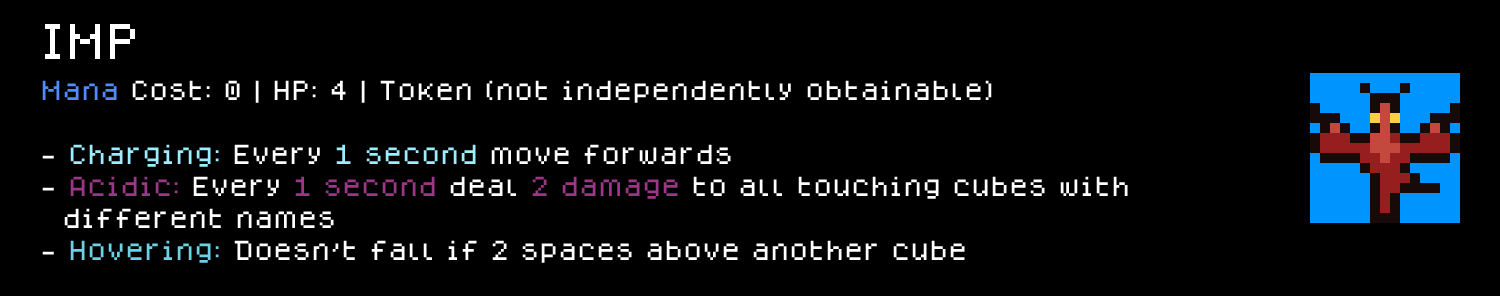
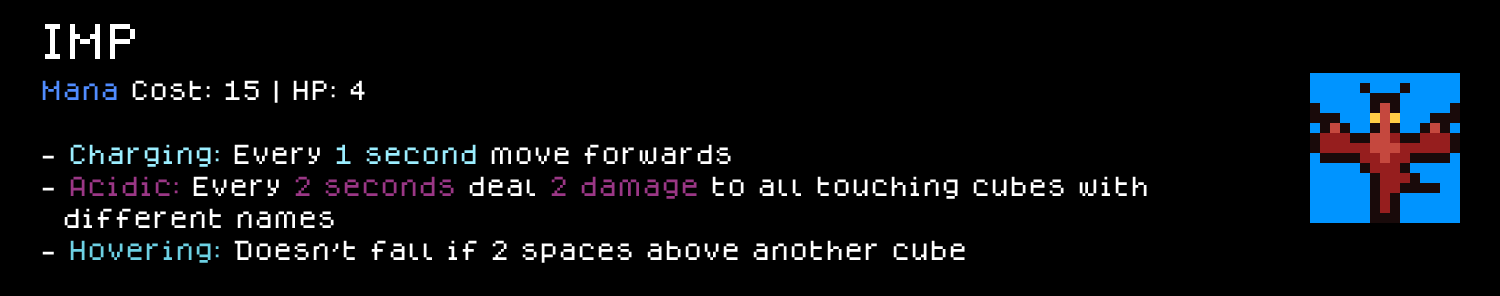
Demon cube changes

Changed region(s): [[0.276, 0.5777, 0.7667, 0.6689], [0.1533, 0.2736, 0.6747, 0.3345], [0.184, 0.6081, 0.2147, 0.6385]]

diff --git a/.claude/skills/cube-chaos-balancing/SKILL.md b/.claude/skills/cube-chaos-balancing/SKILL.md
@@ -49,6 +49,10 @@ Consistent with this whole skill set's core discipline (`cube-chaos-scripting`: 
 
 **Pricing a "spawner" cube by decomposition when no single analog fits.** When a cube's main value is that it creates/becomes another unit (plus does something itself), price it as **(notional value of the spawned unit) + (the cube's own body/effect value)**, rather than hunting for one analog that does the whole thing. Real usage, the Unholy mod (user-set anchors): the `Imp` token was pegged at ≈25 mana of value, so `Damned_Soul` (a `Medium_Warrior_Slime`-ish body that *also* leaves an Imp on death) was priced ≈25 + ~13 body ≈ 38, and `Plague_Imp` (an Imp-equivalent body + a death-poison rider) ≈ 25 + rider ≈ 32. The spawned unit's "notional value" is itself a judgment call (a `TOKEN` has no `IDENT` to read it off — see the TOKEN section below), so anchor it once with the user and reuse it across every cube that spawns that unit, per this skill's write-it-down discipline.
 
+**That spawn-value anchor doesn't automatically carry over if the token itself later becomes an obtainable `IDENT` cube.** When Unholy's `Imp` was converted from `TOKEN` to a real `IDENT 1` cube (2026-07-28, priced on its own hp/ability merits — 4/4 hp, one `EveryXAcidicY 60 2` attack, no rider), the user set its standalone manacost at **15**, below both the ≈25 spawn-value anchor above and the rarity-1 median (25) — the ≈25 figure was always "how much value a *free* Imp is worth to the cube that spawns it," not "what a *purchased* Imp should cost," and those two numbers are allowed to diverge once the token needs its own real price tag. `IDENT` line used: `IDENT 1 10 0 0 0` (aggressive 10, matching `Plague_Imp`'s aggressive rating for the same attack; no defensive/scaling/weirdness since Imp has no on-death rider).
+
+**`EveryXAcidicY TIME DAMAGE` (deals `DAMAGE` to every touching cube with a different name — an AoE poke, not single-target) empirically clusters at `DAMAGE 1`, not 2, across every real analog.** Grepped every `EveryXAcidicY` use in the base game + mods (excluding the deliberately-joke `Magma` `1000/1000/1000` cube): `Lava` (10 mana, `10 1`), `Solid_Shadow` (10 mana, `300 1`), `Fallout` (3 mana, `60 1`), `Acidic`/General class (40 mana `IDENT 2`, `60 1`), `Stomach_Cell` (20 mana `IDENT 1`, `60 1`), `Molten_Brimstone` (0 mana `TOKEN`, `60 1`) — six real cubes at `DAMAGE 1`, versus only a `TOKEN` acid-hazard puddle (`Acid`, `40 2`) at `DAMAGE 2`. So Unholy's `Imp`/`Plague_Imp` at `60 2` were priced above the real norm for this ability. Fixed 2026-07-28 by doubling the interval instead of cutting the damage (user's explicit preference — the user wanted to preserve the "2 damage" bite rather than chip for 1): both now use `EveryXAcidicY 120 2`, which lands their DPS exactly at the same 1-dmg/60-tick rate as the six real analogs above while keeping the bigger per-hit number. `ChargeEveryX` (Imp/Plague_Imp's other 60-tick ability) was deliberately left untouched at 60 — it's an unrelated forward-movement ability (`ModdingInfo.txt:93`, "Charging: every CODE 1 move forwards"), not a warmup tied to the attack timer, and only coincidentally shared the same number.
+
 ## `TOKEN` cubes need none of this
 
 A `TOKEN` cube (not randomly obtainable — created only as a byproduct of another cube/perk's own ability, e.g. `Bomb`, `Shot`, `Rocket`) has no `IDENT` line at all, hence no rarity/aggressive/defensive/scaling/weirdness numbers to choose. Its manacost is conventionally `0` (every real base-game and mod `TOKEN` cube checked uses `0`) since it's never bought from mana, only spawned. hp/maxhp still matter (how tanky the spawned cube is) and should be balanced by analogy the same way as an `IDENT` cube's hp — just without the rarity/AI-value fields.
